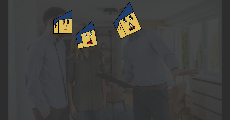
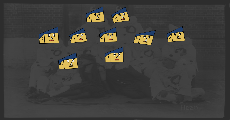
retrained teeth

diff --git a/myFace.js b/myFace.js
@@ -6,10 +6,8 @@ const blue=[31,62,109];
 const black=[0,0,0];
 const grey=[211,211,209];
 const white=[255,255,255];
-const darkGrey=[110,110,110];
-const pink=[216,27,67];
-//const pink=[188,66,108];
 
+const pink=[216,27,67];
 
 //sideburns
 const faceScale=0.5;
@@ -33,7 +31,7 @@ const maxEarY=2*faceScale;
 const earShapes=["circle","triangle","square","none"];
 
 //mouth
-const minNumberOfteeth=3;
+const minNumberOfteeth=0;
 const maxNumberOfTeeth=8;
 
 
@@ -150,23 +148,10 @@ class myFace{
     push();
     translate(mouthX,0);
     rect(0,this.mouthY,this.mouthWidth,this.mouthHeight);
-   //draw teeth if face has teeth and the teeth won't make the mouth completely filled with the stroke
-    //if(this.hasTeeth&&!this.mouthWidth/this.numberOfteeth+myStrokeWeight*1.1<this.mouthWidth/this.numberOfteeth*2-myStrokeWeight*1.1){
-    
+   //draw teeth if face has teeth
+  
     let isMouthOpen=0.09<this.positions.bottom_lip[9][1]-this.positions.top_lip[9][1];
-    //  let isMouthOpen=true;
-    // // for(let i=8;i<10;i++){
-    // //   if(!(0.15<(this.positions.bottom_lip[i][1]-this.positions.top_lip[i][1]))){
-    // //     isMouthOpen=false;
-        
-    // //   }
-    // // }
-    // console.log(this.mouthHeight/0.09);
-    // if(segment_average(this.positions.bottom_lip)[1]
-    // segment_average(this.positions.top_lip)[1]
-    // )
-
-    if(isMouthOpen){  
+    if(this.numberOfteeth>1&&isMouthOpen){  
     line(-this.mouthWidth/2,this.mouthY,this.mouthWidth/2,this.mouthY);
       for(let i=1;i<this.numberOfteeth;i++){
         line(-this.mouthWidth/2+this.mouthWidth/this.numberOfteeth*i,this.mouthY-this.mouthHeight/2,-this.mouthWidth/2+this.mouthWidth/this.numberOfteeth*i,this.mouthY+this.mouthHeight/2);
@@ -206,8 +191,6 @@ class myFace{
     let eyeWidth=this.getAverage(leftEyeWidth,rightEyeWidth);
 
 
-    
-    //console.log(this.innerEyeWidth+" "+this.innerEyeHeight); 
     //left eye
     fill(this.eyeBallCol);
     ellipse(segment_average(this.positions.left_eye)[0],this.eyeY, eyeWidth,eyeHeight);

diff --git a/face.js b/face.js
@@ -107,10 +107,10 @@ function Face() {
     this.face.earShape=earShapes[round(map(settings[4], 0, 100, 0,earShapes.length))];
     this.face.earY=map(settings[5], 0, 100, minEarY, maxEarY);
    
-    this.face.hasTeeth=0.5<map(settings[6], 0, 100, 0,1);
+    this.face.masculineLip=0.5<map(settings[6], 0, 100, 0,1);
     
     this.face.numberOfteeth=Math.floor(map(settings[7], 0, 100, minNumberOfteeth,maxNumberOfTeeth));
-    this.face.masculineLip=0.5<map(settings[8], 0, 100, 0,1);
+    //this.face.masculineLip=0.5<map(settings[8], 0, 100, 0,1);
     
   }
 
@@ -128,7 +128,7 @@ function Face() {
     settings[4]=map(earShapes.indexOf(this.face.earShape), 0,earShapes.length, 0, 100);
     settings[5]= map(this.face.earY, minEarY, maxEarY, 0, 100);
    
-    settings[6]=map(this.face.hasTeeth?1:0, 0,1, 0, 100);
+    settings[6]=map(this.face.masculineLip?1:0, 0,1, 0, 100);
     settings[7]=map(this.face.numberOfteeth, minNumberOfteeth,maxNumberOfTeeth, 0, 100);
     settings[8]=map(this.face.masculineLip?1:0, 0,1, 0, 100);
     return settings;

diff --git a/index.html b/index.html
@@ -78,7 +78,7 @@
                 </tr>
                
                 <tr>
-                    <td>has teeth</td>
+                    <td>lip colour</td>
                     <td id="slider7Container"></td>
                 </tr>
                 <tr>
@@ -86,7 +86,7 @@
                     <td id="slider8Container"></td>
                 </tr>
                 <tr>
-                    <td>lip colour</td>
+                    <td>unused slider</td>
                     <td id="slider9Container"></td>
                 </tr>
 

diff --git a/README.md b/README.md
@@ -1,1 +1,1 @@
-I have made whether or not it has teeth mapped to the distance between the middle of the top and bottom lip. This isn't perfect on the training faces but this gives a much more reliable ffect on any test data in general.  
+I retrained the data so there was 0 teeth on the same slider as number of teeth to try and copensate for the teeth being drawn when there are none. This makes the training data look really good for having teeth but it now means that the test data doesn't have many teeth which just looks bad. So I am going to revert this change even if it makes the training data slightly worse. This is what is called overfitting of the training data which makes the training data great but any test data not fit well. 
